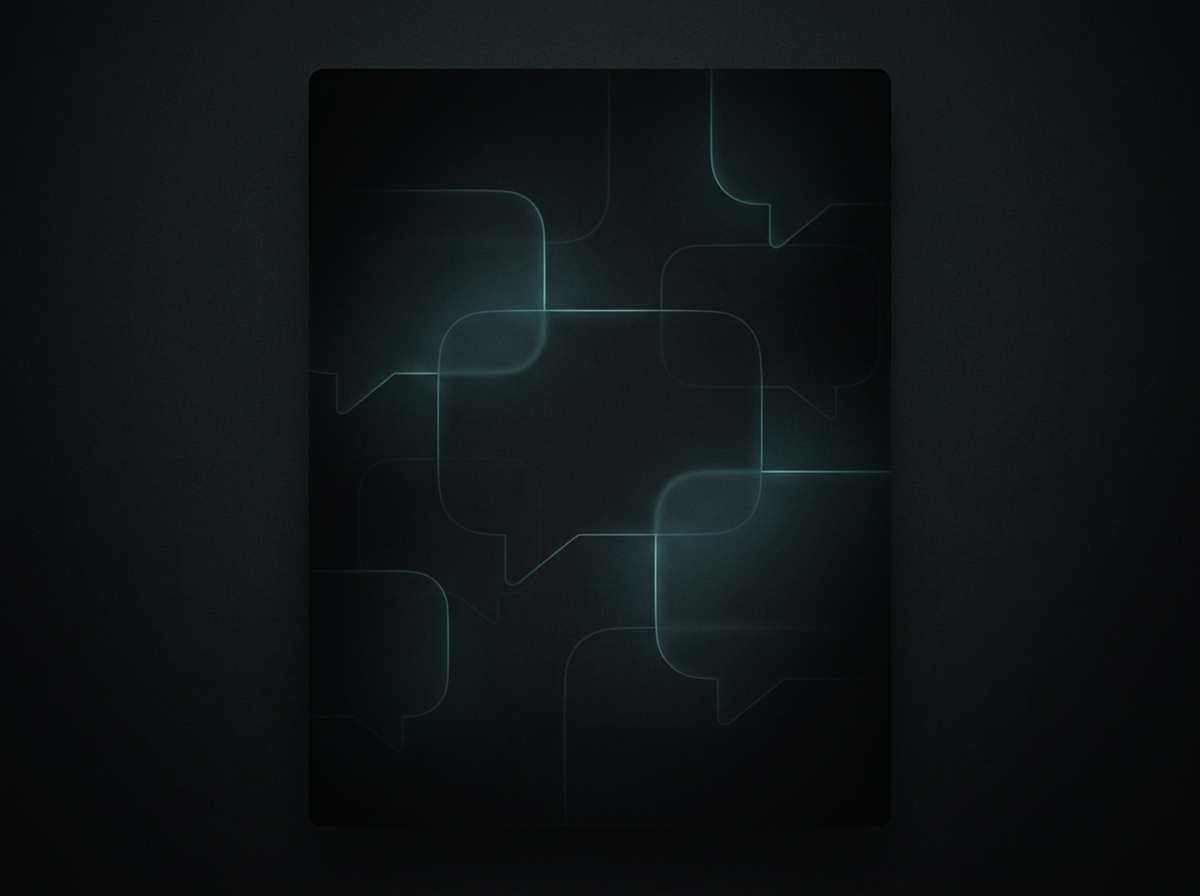
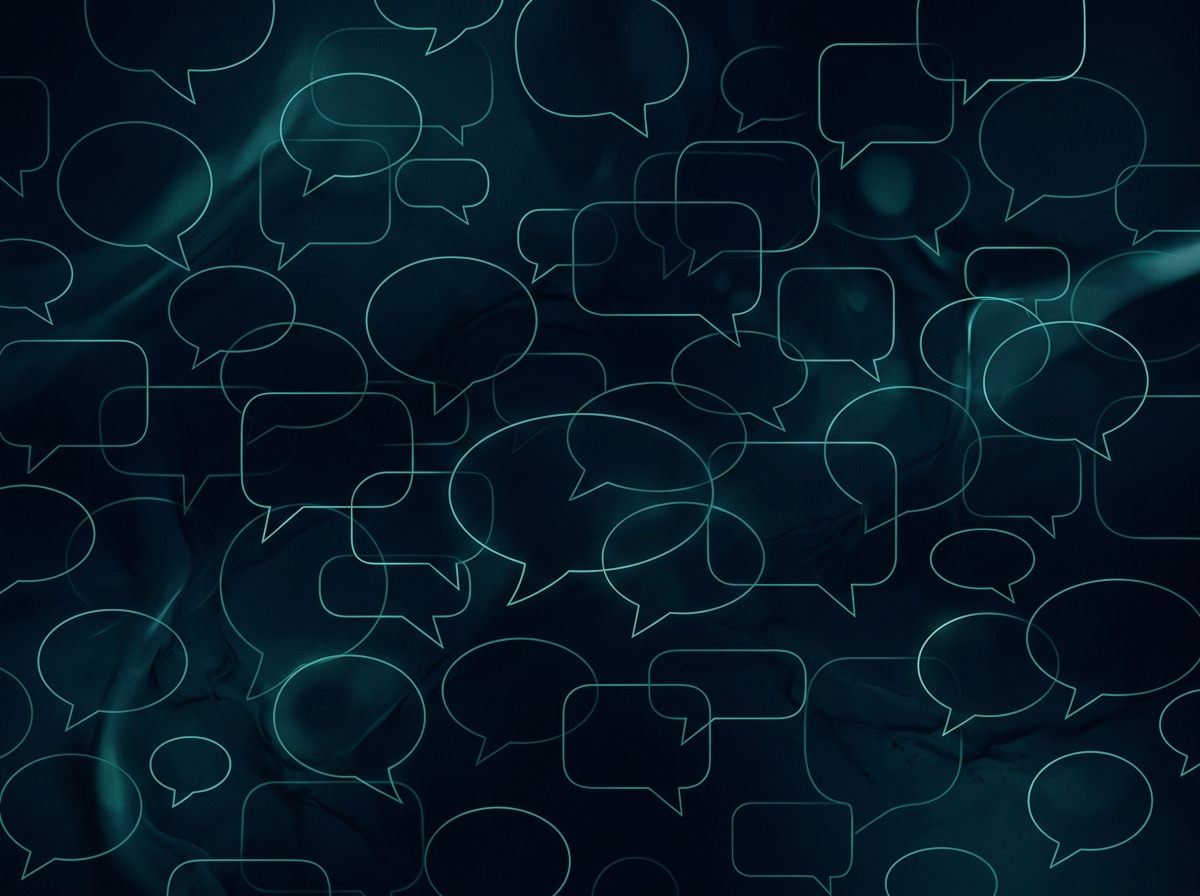
hero section ui improved

diff --git a/src/App.css b/src/App.css
@@ -309,7 +309,7 @@
   align-items: flex-start;
   justify-content: center;
   text-align: left;
-  padding: 88px 20px 56px;
+  padding: 40px 20px 56px;
   max-width: 1200px;
   margin: 0 auto;
   box-sizing: border-box;
@@ -399,18 +399,73 @@
 }
 
 .hero-title {
-  font-family: "Geist Pixel", sans-serif;
-  font-weight: 800;
-  font-size: clamp(2rem, 9vw, 3.5rem);
-  line-height: 1.12;
-  letter-spacing: -1px;
+  font-family: "Anton", sans-serif;
+  font-weight: 400;
+  letter-spacing: 4px;
+  text-transform: uppercase;
+}
+
+.hero-title-line {
+  display: flex;
+  align-items: flex-start;
+  gap: 12px;
+  line-height: 1;
+}
+
+.hero-title-line:last-child {
+  align-items: flex-end;
+}
+
+.hero-title-accent {
+  font-size: clamp(2rem, 6vw, 4.5rem);
+  color: #CCFF00;
+  line-height: 1;
+  text-shadow:
+    2px 2px 0 #4a4a2a,
+    4px 4px 0 #3d3d22,
+    6px 6px 0 #33331c,
+    8px 8px 8px rgba(40, 40, 20, 0.5);
+}
+
+.hero-title-main {
+  font-size: clamp(3.5rem, 12vw, 8.5rem);
   color: #fff;
-  background: linear-gradient(to bottom right, #f3f3f3, #efe8cb);
-  -webkit-background-clip: text;
-  -webkit-text-fill-color: transparent;
-  background-clip: text;
-  word-break: break-word;
-  min-height: 4.5em;
+  line-height: 1;
+  text-shadow:
+    2px 2px 0 #666,
+    4px 4px 0 #5a5a5a,
+    6px 6px 0 #4f4f4f,
+    8px 8px 0 #444,
+    10px 10px 0 #3a3a3a,
+    12px 12px 0 #333,
+    14px 14px 0 #2a2a2a,
+    16px 16px 20px rgba(30, 30, 30, 0.6);
+}
+
+.hero-title-main-green {
+  font-size: clamp(3.5rem, 12vw, 8.5rem);
+  color: #CCFF00;
+  line-height: 1;
+  text-shadow:
+    2px 2px 0 #4a4a2a,
+    4px 4px 0 #3d3d22,
+    6px 6px 0 #33331c,
+    8px 8px 0 #2a2a16,
+    10px 10px 0 #222210,
+    12px 12px 0 #1c1c0c,
+    14px 14px 0 #1c1c0c,
+    16px 16px 20px rgba(30, 30, 10, 0.6);
+}
+
+.hero-title-accent-white {
+  font-size: clamp(2rem, 6vw, 4.5rem);
+  color: #fff;
+  line-height: 1;
+  text-shadow:
+    2px 2px 0 #666,
+    4px 4px 0 #555,
+    6px 6px 0 #444,
+    8px 8px 8px rgba(40, 40, 40, 0.5);
 }
 
 .hero-sub {
@@ -663,8 +718,7 @@
   }
 
   .hero-title {
-    letter-spacing: -1.5px;
-    min-height: 3.5em;
+    letter-spacing: 3px;
   }
 
   .hero-sub {
@@ -705,8 +759,7 @@
   }
 
   .hero-title {
-    letter-spacing: -2px;
-    min-height: auto;
+    letter-spacing: 2px;
   }
 
   .hero-sub {
@@ -804,7 +857,7 @@
 
   #hero {
     min-height: 100vh;
-    padding: 120px 40px 80px;
+    padding: 80px 40px 40px;
   }
 
   .hero-dtu-badge {
@@ -815,9 +868,18 @@
   }
 
   .hero-title {
-    font-size: clamp(3rem, 7vw, 3.5rem);
-    line-height: 1.08;
-    letter-spacing: -3px;
+    line-height: 0.95;
+    letter-spacing: 3px;
+  }
+
+  .hero-title-accent,
+  .hero-title-accent-white {
+    font-size: clamp(1.8rem, 4vw, 3rem);
+  }
+
+  .hero-title-main,
+  .hero-title-main-green {
+    font-size: clamp(3rem, 8vw, 6rem);
   }
 
   .hero-sub {
@@ -828,7 +890,7 @@
 
   .hero-cta {
     gap: 14px;
-    margin-top: 44px;
+    margin-top: 28px;
   }
 
   .btn-primary,
@@ -838,9 +900,9 @@
   }
 
   .dtu-highlight {
-    gap: 10px 28px;
-    margin-top: 40px;
-    padding-top: 20px;
+    gap: 8px 24px;
+    margin-top: 20px;
+    padding-top: 14px;
   }
 
   .dtu-hi-item {
@@ -849,8 +911,8 @@
 
   .stats-strip {
     grid-template-columns: repeat(4, 1fr);
-    gap: 20px;
-    margin-top: 40px;
+    gap: 16px;
+    margin-top: 24px;
     max-width: 760px;
   }
 
@@ -1034,7 +1096,7 @@
   width: 100%;
   height: 100%;
   object-fit: cover;
-  opacity: 0.4;
+  opacity: 0.3;
   pointer-events: none;
   z-index: 0;
   border-radius: inherit;

diff --git a/src/components/Hero.jsx b/src/components/Hero.jsx
@@ -48,19 +48,20 @@ export default function Hero({ onOpenModal }) {
       {/* Blended campus background */}
       <div className="hero-campus-bg" style={{ backgroundImage: `url(${dtuCampusImg})` }} />
       <div className="hero-content">
-        <motion.div className="hero-dtu-badge" {...fadeUp(0)}>
-          <span className="dtu-dot" />
-          <span>Delhi Technological University</span>
-        </motion.div>
-
         <motion.h1
           className="hero-title"
           initial={{ opacity: 0.5, y: 100 }}
           whileInView={{ opacity: 1, y: 0 }}
           transition={{ delay: 0.3, duration: 0.8, ease: 'easeInOut' }}
         >
-          Connect Today.<br />
-          Lead Tomorrow.
+          <div className="hero-title-line">
+            <span className="hero-title-accent">Connect</span>
+            <span className="hero-title-main">Today.</span>
+          </div>
+          <div className="hero-title-line">
+            <span className="hero-title-main-green">Lead</span>
+            <span className="hero-title-accent-white">Tomorrow.</span>
+          </div>
         </motion.h1>
 
         <motion.p className="hero-sub" {...fadeUp(0.2)}>

diff --git a/index.html b/index.html
@@ -48,7 +48,7 @@
   <!-- Fonts -->
   <link rel="preconnect" href="https://fonts.googleapis.com">
   <link rel="preconnect" href="https://fonts.gstatic.com" crossorigin>
-  <link href="https://fonts.googleapis.com/css2?family=Geist+Pixel&display=swap" rel="stylesheet">
+  <link href="https://fonts.googleapis.com/css2?family=Anton&family=Geist+Pixel&display=swap" rel="stylesheet">
 
   <!-- JSON-LD Structured Data -->
   <script type="application/ld+json">
